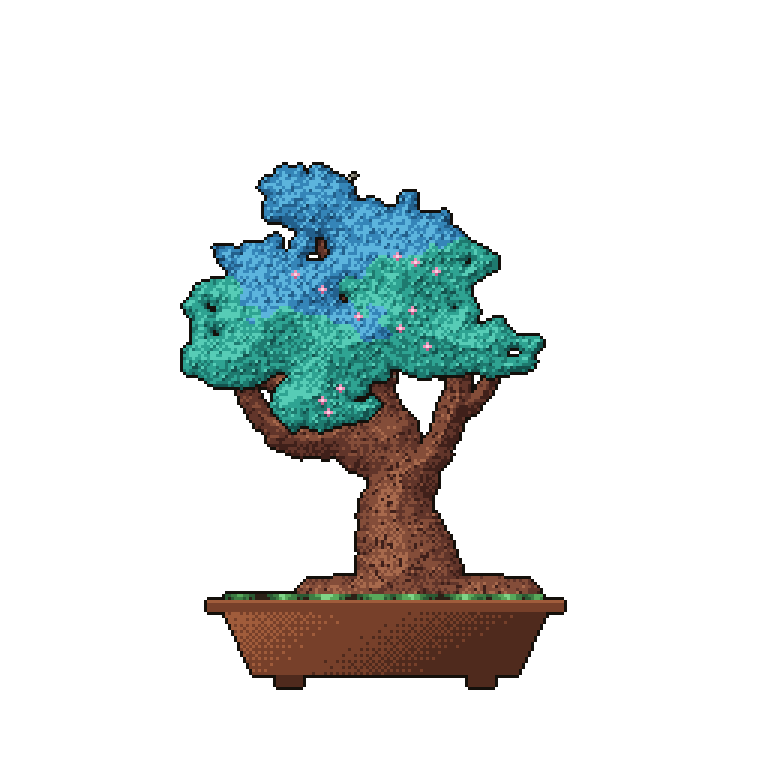
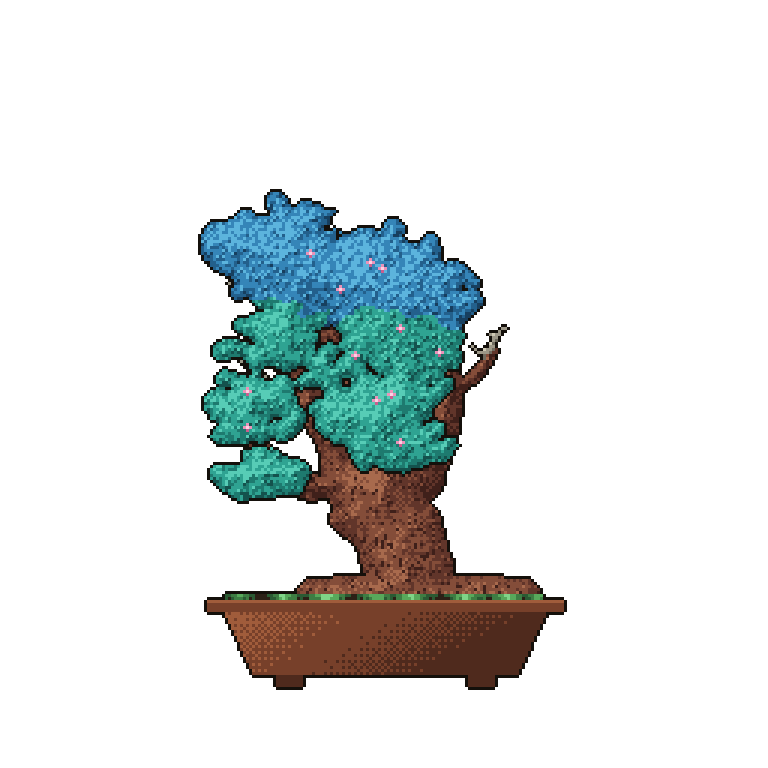
fix: keep existing trees' shapes — new-feature rng draws use their own stream
Multi-trunk jitters and extra S-phases were draining the main seeded stream,
reshuffling every existing tree's skeleton (branches appeared/vanished on
update). They now come from a separate '<seed>|trunks' stream; single-trunk
trees render bit-identically to the previous engine (verified veteran/young
against the prior commit — only the intended shohin pot differs for young).

Claude-Session: https://claude.ai/code/session_016wzfiLTiSENdkKTfsVTFZx

Changed region(s): [[0.2188, 0.1875, 0.7188, 0.7812]]

diff --git a/dist/src/dna.js b/dist/src/dna.js
@@ -22,10 +22,12 @@ function deriveDna(metrics, rng) {
     const leanRoll = rng();
     const splitJitA = (0, seed_1.range)(rng, -0.04, 0.04);
     const splitJitB = (0, seed_1.range)(rng, -0.04, 0.04);
-    // per-trunk jitters for multi-trunk styles (drawn even when unused)
-    const trunkScaleJit = Array.from({ length: 7 }, () => (0, seed_1.range)(rng, -0.06, 0.06));
-    const trunkLeanJit = Array.from({ length: 7 }, () => (0, seed_1.range)(rng, -0.08, 0.08));
-    const trunkDxJit = Array.from({ length: 7 }, () => (0, seed_1.range)(rng, -4, 4));
+    // per-trunk jitters for multi-trunk styles come from their own stream:
+    // draining the main rng here would reshuffle every existing tree's skeleton
+    const trunkRng = (0, seed_1.makeRng)(metrics.username.toLowerCase() + '|trunks');
+    const trunkScaleJit = Array.from({ length: 7 }, () => (0, seed_1.range)(trunkRng, -0.06, 0.06));
+    const trunkLeanJit = Array.from({ length: 7 }, () => (0, seed_1.range)(trunkRng, -0.08, 0.08));
+    const trunkDxJit = Array.from({ length: 7 }, () => (0, seed_1.range)(trunkRng, -4, 4));
     const ageYears = Math.max(0, (Date.parse(metrics.fetchedAt) - Date.parse(metrics.createdAt)) / (DAY_MS * 365.25));
     const activity = sat(Math.log10(metrics.totalContributions + 1) / 4.5); // ~30k commits -> 1.0
     const cv = metrics.weeklyCv ?? 1.0;

diff --git a/src/dna.ts b/src/dna.ts
@@ -1,5 +1,5 @@
 import { Metrics, BonsaiDNA, Style, Trunk, SizeClass } from './types';
-import { Rng, clamp, range } from './seed';
+import { Rng, clamp, range, makeRng } from './seed';
 import { speciesFor } from './palette';
 
 const DAY_MS = 86_400_000;
@@ -23,10 +23,12 @@ export function deriveDna(metrics: Metrics, rng: Rng): BonsaiDNA {
   const leanRoll = rng();
   const splitJitA = range(rng, -0.04, 0.04);
   const splitJitB = range(rng, -0.04, 0.04);
-  // per-trunk jitters for multi-trunk styles (drawn even when unused)
-  const trunkScaleJit = Array.from({ length: 7 }, () => range(rng, -0.06, 0.06));
-  const trunkLeanJit = Array.from({ length: 7 }, () => range(rng, -0.08, 0.08));
-  const trunkDxJit = Array.from({ length: 7 }, () => range(rng, -4, 4));
+  // per-trunk jitters for multi-trunk styles come from their own stream:
+  // draining the main rng here would reshuffle every existing tree's skeleton
+  const trunkRng = makeRng(metrics.username.toLowerCase() + '|trunks');
+  const trunkScaleJit = Array.from({ length: 7 }, () => range(trunkRng, -0.06, 0.06));
+  const trunkLeanJit = Array.from({ length: 7 }, () => range(trunkRng, -0.08, 0.08));
+  const trunkDxJit = Array.from({ length: 7 }, () => range(trunkRng, -4, 4));
 
   const ageYears = Math.max(
     0,

diff --git a/src/skeleton.ts b/src/skeleton.ts
@@ -1,5 +1,5 @@
 import { BonsaiDNA } from './types';
-import { Rng, range, clamp } from './seed';
+import { Rng, range, clamp, makeRng } from './seed';
 import { SPECIES } from './palette';
 import { poissonDisk } from './poisson';
 
@@ -72,8 +72,10 @@ export function buildSkeleton(dna: BonsaiDNA, rng: Rng): Skeleton {
   // sekijoju: the trunk starts on top of a rock; roots bridge down to the soil
   const rockH = dna.rock ? clamp(12 + dna.baseRadius, 14, 24) : 0;
   const baseY = GROUND_Y - rockH;
-  // per-trunk S-curve phases (drawn up front so trunk count can't shift the stream)
-  const sPhases = Array.from({ length: 7 }, () => rng() * Math.PI * 2);
+  // the first trunk's S-phase comes from the main stream (exactly as it always
+  // did — existing trees must keep their shape); extra trunks get their own
+  const auxRng = makeRng(dna.seedKey + '|trunks');
+  const sPhases = [rng() * Math.PI * 2, ...Array.from({ length: 6 }, () => auxRng() * Math.PI * 2)];
   let sPhase = sPhases[0];
   let curLean = dna.lean; // the currently growing trunk's own lean
   // bunjin keeps its sparse crown near the apex only

diff --git a/dist/src/skeleton.js b/dist/src/skeleton.js
@@ -25,8 +25,10 @@ function buildSkeleton(dna, rng) {
     // sekijoju: the trunk starts on top of a rock; roots bridge down to the soil
     const rockH = dna.rock ? (0, seed_1.clamp)(12 + dna.baseRadius, 14, 24) : 0;
     const baseY = exports.GROUND_Y - rockH;
-    // per-trunk S-curve phases (drawn up front so trunk count can't shift the stream)
-    const sPhases = Array.from({ length: 7 }, () => rng() * Math.PI * 2);
+    // the first trunk's S-phase comes from the main stream (exactly as it always
+    // did — existing trees must keep their shape); extra trunks get their own
+    const auxRng = (0, seed_1.makeRng)(dna.seedKey + '|trunks');
+    const sPhases = [rng() * Math.PI * 2, ...Array.from({ length: 6 }, () => auxRng() * Math.PI * 2)];
     let sPhase = sPhases[0];
     let curLean = dna.lean; // the currently growing trunk's own lean
     // bunjin keeps its sparse crown near the apex only
